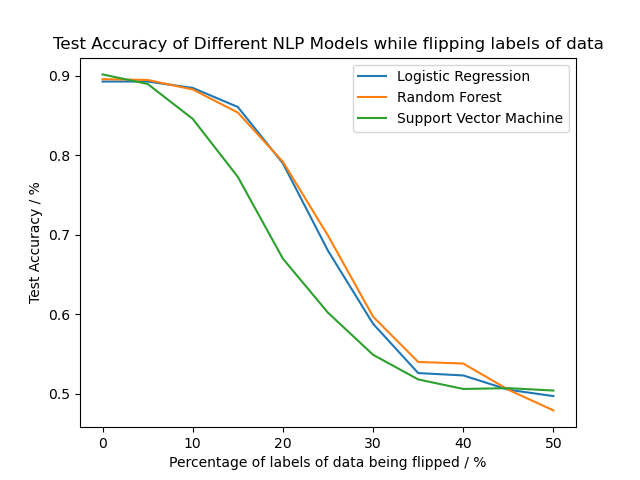
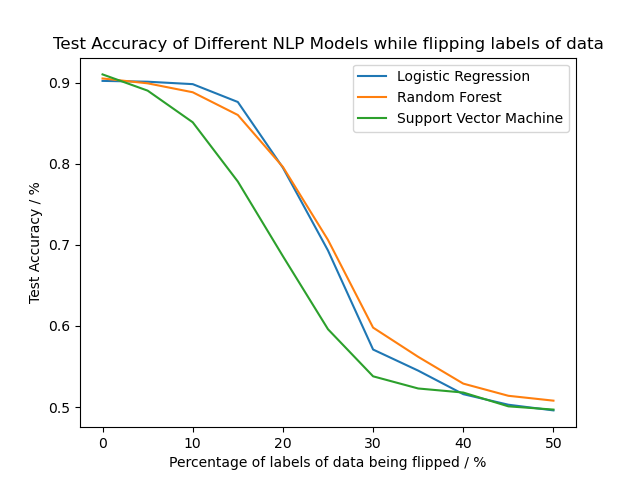
redo annotator bias, delete test

diff --git a/annotator_bias.py b/annotator_bias.py
@@ -80,7 +80,7 @@ svm_accuracy = []
 
 # Determining if N should be run with full values or inputted value
 if args.N == False:
-    N_list = list(range(0,105, 5))
+    N_list = list(range(0,55, 5))
 else:
     N_list = args.N
 
